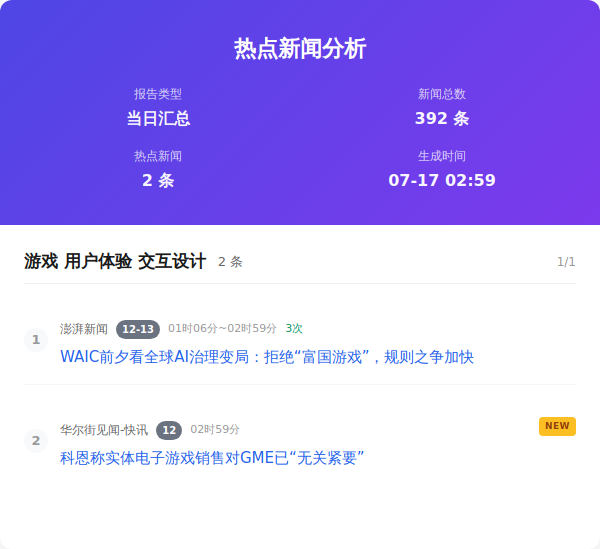
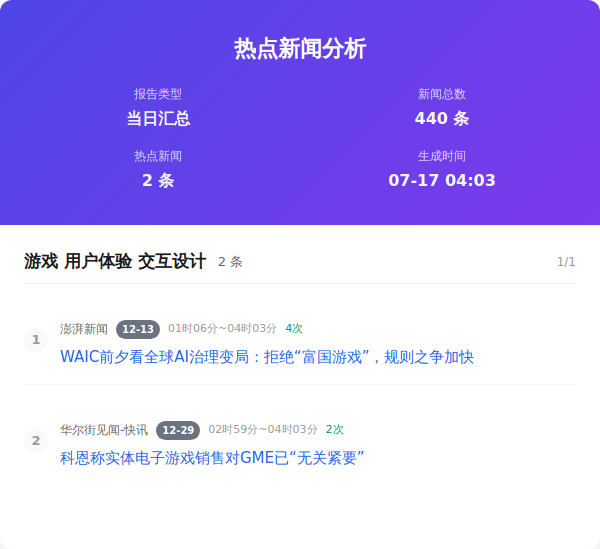
Auto update by GitHub Actions at Fri Jul 17 04:03:50 CST 2026

diff --git a/output/2026年07月17日/html/当日汇总.html b/output/2026年07月17日/html/当日汇总.html
@@ -357,7 +357,7 @@
                     </div>
                     <div class="info-item">
                         <span class="info-label">新闻总数</span>
-                        <span class="info-value">392 条</span>
+                        <span class="info-value">440 条</span>
                     </div>
                     <div class="info-item">
                         <span class="info-label">热点新闻</span>
@@ -365,7 +365,7 @@
                     </div>
                     <div class="info-item">
                         <span class="info-label">生成时间</span>
-                        <span class="info-value">07-17 02:59</span>
+                        <span class="info-value">07-17 04:03</span>
                     </div>
                 </div>
             </div>
@@ -383,17 +383,17 @@
                         <div class="news-number">1</div>
                         <div class="news-content">
                             <div class="news-header">
-                                <span class="source-name">澎湃新闻</span><span class="rank-num ">12-13</span><span class="time-info">01时06分~02时59分</span><span class="count-info">3次</span>
+                                <span class="source-name">澎湃新闻</span><span class="rank-num ">12-13</span><span class="time-info">01时06分~04时03分</span><span class="count-info">4次</span>
                             </div>
                             <div class="news-title"><a href="https://m.thepaper.cn/newsDetail_forward_33590679" target="_blank" class="news-link">WAIC前夕看全球AI治理变局：拒绝“富国游戏”，规则之争加快</a>
                             </div>
                         </div>
                     </div>
-                    <div class="news-item new">
+                    <div class="news-item ">
                         <div class="news-number">2</div>
                         <div class="news-content">
                             <div class="news-header">
-                                <span class="source-name">华尔街见闻-快讯</span><span class="rank-num ">12</span><span class="time-info">02时59分</span>
+                                <span class="source-name">华尔街见闻-快讯</span><span class="rank-num ">12-29</span><span class="time-info">02时59分~04时03分</span><span class="count-info">2次</span>
                             </div>
                             <div class="news-title"><a href="https://wallstreetcn.com/livenews/3135226" target="_blank" class="news-link">科恩称实体电子游戏销售对GME已“无关紧要”</a>
                             </div>